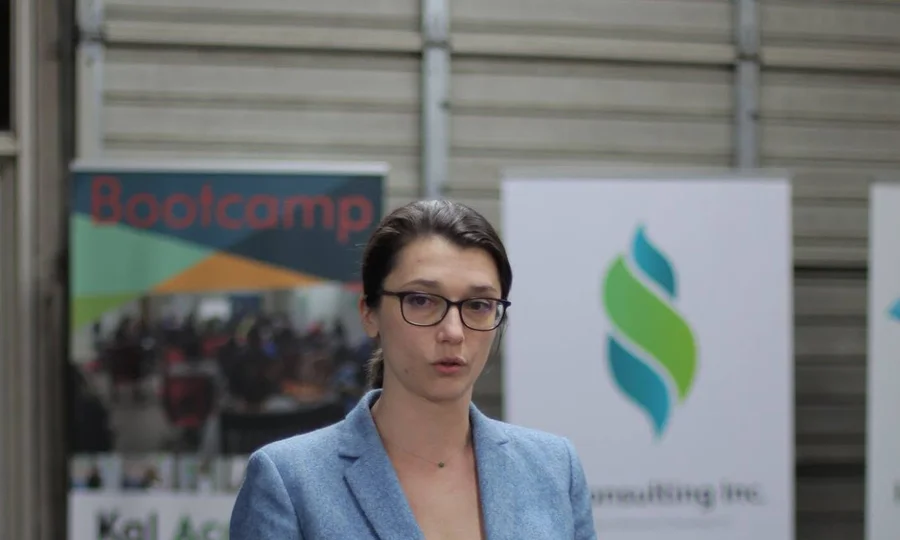
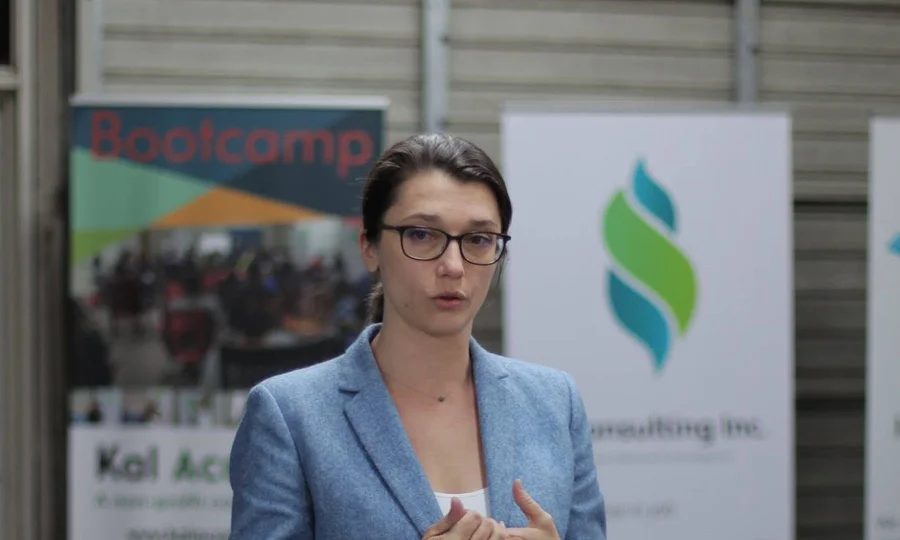
Fix face cropping on gallery photos (#39)
* Fix face cropping on gallery photos at actual render size

The gallery carousel item has a fixed height but fluid width, so its
real aspect ratio varies by viewport and didn't match the fixed 5:3
pre-crop — the browser's own object-cover then re-cropped from the
center, cutting into faces positioned near the top of the frame.
Anchor the two portrait photos to object-top instead of relying on
the source pre-crop alone, and restore a bit more headroom on the
speaker photo's source crop.

* Tighten crop on presentation photo to trim empty headroom

Shifts the source crop down to cut most of the blank wall/ceiling
space above her head while keeping a small margin.

* Rename presentation photo to force a fresh URL

The crop itself was already correct on disk (verified server-side,
bypassing any cache), but this environment had already caused
confusing stale-cache symptoms twice in this branch's history.
Renaming to a new filename guarantees no proxy, browser, or Next.js
image-optimizer cache can serve the old crop under this URL.

diff --git a/src/app/[locale]/page.tsx b/src/app/[locale]/page.tsx
@@ -31,16 +31,16 @@ const featuredEventImages = [
 ];
 
 const galleryImages = [
-  "/images/community/past-event-presentation.webp",
-  "/images/community/past-event-speaker.webp",
-  "/images/community/home-events.webp",
-  "/images/community/home-community.webp",
-  "/images/community/event-workshop.webp",
-  "/images/community/event-audience.webp",
-  "/images/community/event-networking.webp",
-  "/images/community/home-mentor-friends.webp",
-  "/images/community/home-hero-roundtable.webp",
-  "/images/community/home-mentorship.webp",
+  { src: "/images/community/past-event-presentation-v2.webp", objectPosition: "object-top" },
+  { src: "/images/community/past-event-speaker.webp", objectPosition: "object-top" },
+  { src: "/images/community/home-events.webp" },
+  { src: "/images/community/home-community.webp" },
+  { src: "/images/community/event-workshop.webp" },
+  { src: "/images/community/event-audience.webp" },
+  { src: "/images/community/event-networking.webp" },
+  { src: "/images/community/home-mentor-friends.webp" },
+  { src: "/images/community/home-hero-roundtable.webp" },
+  { src: "/images/community/home-mentorship.webp" },
 ];
 
 async function getUpcomingEvents() {
@@ -335,14 +335,14 @@ export default async function HomePage() {
           </div>
           <Carousel opts={{ loop: true }} className="mx-auto max-w-5xl">
             <CarouselContent>
-              {galleryImages.map((src) => (
-                <CarouselItem key={src} className="sm:basis-1/2 lg:basis-1/3">
+              {galleryImages.map((image) => (
+                <CarouselItem key={image.src} className="sm:basis-1/2 lg:basis-1/3">
                   <div className="relative h-56 overflow-hidden rounded-xl">
                     <Image
-                      src={src}
+                      src={image.src}
                       alt="WorkChat Seattle community photo"
                       fill
-                      className="object-cover"
+                      className={`object-cover ${image.objectPosition ?? ""}`}
                     />
                   </div>
                 </CarouselItem>
